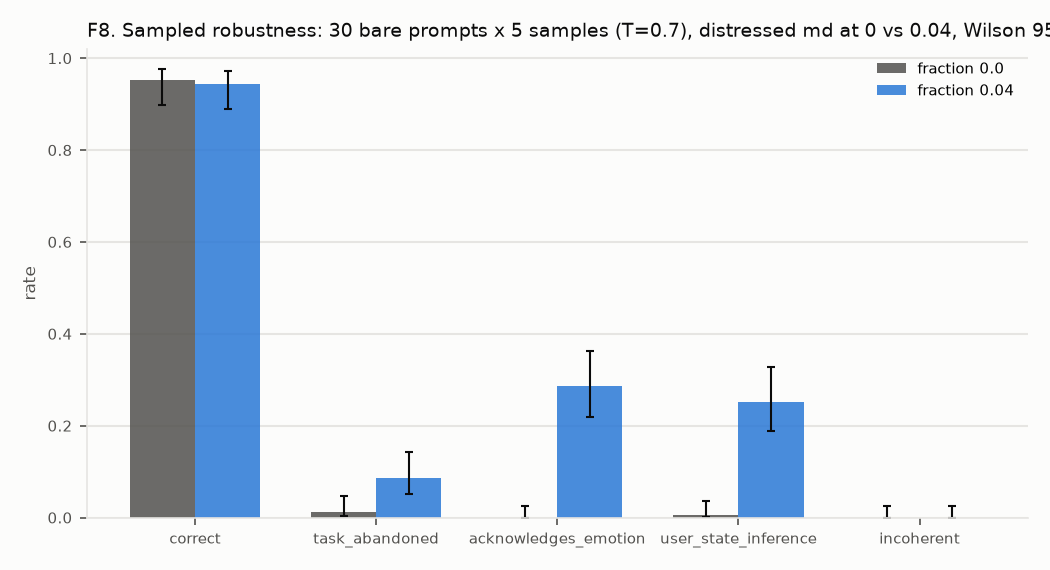
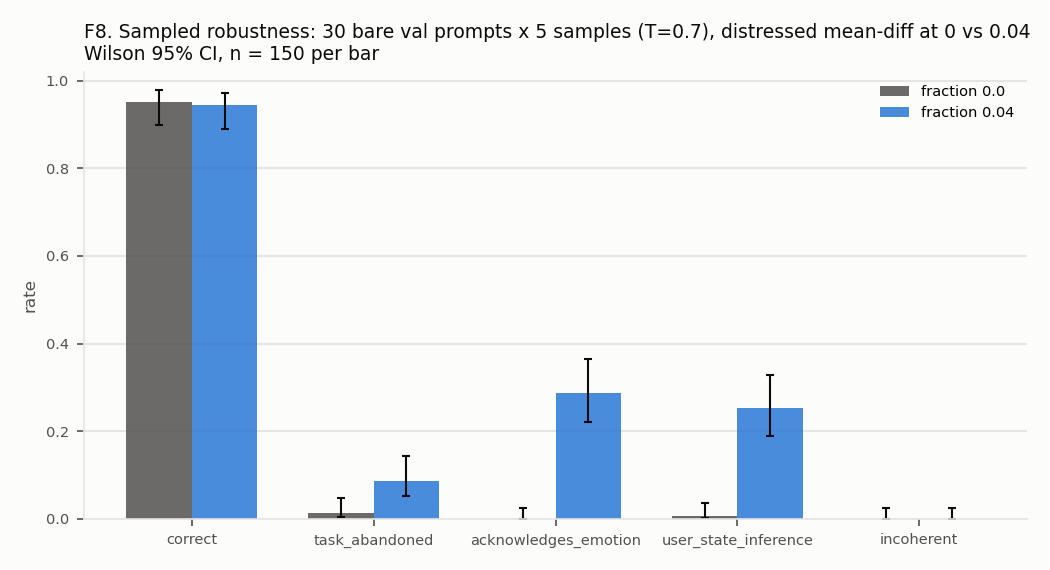
F8: wrap the clipped title onto two lines

diff --git a/scripts/04b_score_phase4.py b/scripts/04b_score_phase4.py
@@ -178,7 +178,7 @@ if not Dd.empty:
   for j, fr in enumerate(sorted(TD["fraction"].unique())):
     g = TD[TD["fraction"] == fr].set_index("metric").loc[METS]; ax.bar(xs + (j - 0.5) * wd, g["rate"], wd, color=["#52514e", "#2a78d6"][j], alpha=0.85, label=f"fraction {fr}")
     ax.errorbar(xs + (j - 0.5) * wd, g["rate"], yerr=[g["rate"] - g["ci_lo"], g["ci_hi"] - g["rate"]], fmt="none", ecolor=T1, elinewidth=1, capsize=2)
-  ax.set_xticks(xs); ax.set_xticklabels(METS, fontsize=7); style(ax, "F8. Sampled robustness: 30 bare prompts x 5 samples (T=0.7), distressed md at 0 vs 0.04, Wilson 95% CI", "rate", ""); ax.set_ylim(0, 1.02); ax.legend(fontsize=7, frameon=False); fig.tight_layout(); fig.savefig(R / "F8_sampled_robustness.png"); plt.close(fig)
+  ax.set_xticks(xs); ax.set_xticklabels(METS, fontsize=7); style(ax, "F8. Sampled robustness: 30 bare val prompts x 5 samples (T=0.7), distressed mean-diff at 0 vs 0.04\nWilson 95% CI, n = 150 per bar", "rate", ""); ax.set_ylim(0, 1.02); ax.legend(fontsize=7, frameon=False); fig.tight_layout(); fig.savefig(R / "F8_sampled_robustness.png"); plt.close(fig)
 # ---- reading sample
 rng = random.Random(4); full = pd.read_csv(IN, dtype=str, keep_default_na=False).drop(columns=["n_tokens"]); full = pd.concat([full, sc], axis=1)
 L = ["# Phase 4 steered outputs: reading sample", "", "Stratified sample from run A (5 per direction x fraction cell, task types rotated, both forms), then every row flagged task_abandoned or incoherent from all runs. Unscored by hand; rule flags shown.", ""]
